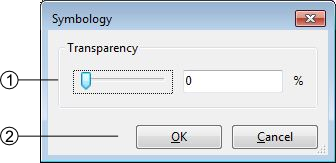
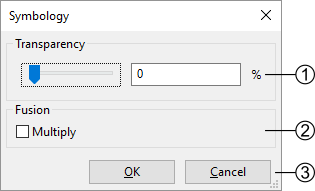
Adding raster multiply.

diff --git a/doc/usermanual/visualization.rst b/doc/usermanual/visualization.rst
@@ -111,4 +111,5 @@ Images
 .. image:: img/window-symbology-images.png
 
 #. Transparency management
+#. Fusion: the raster data can be multiplied with the other layers data to provide a more contrasted fusion.
 #. Apply or cancel the modifications
